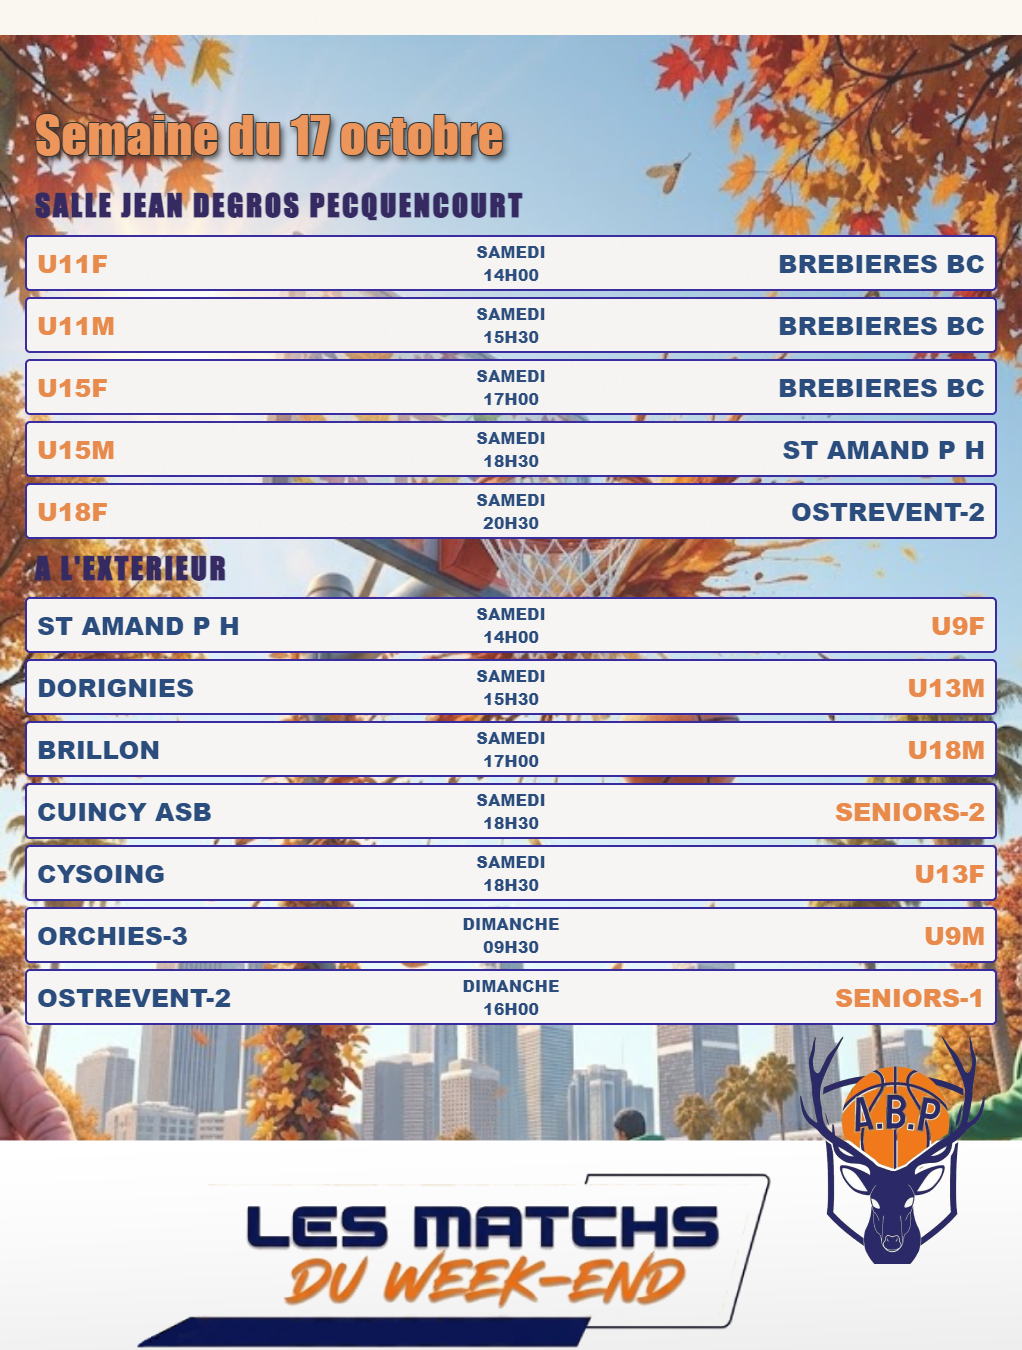
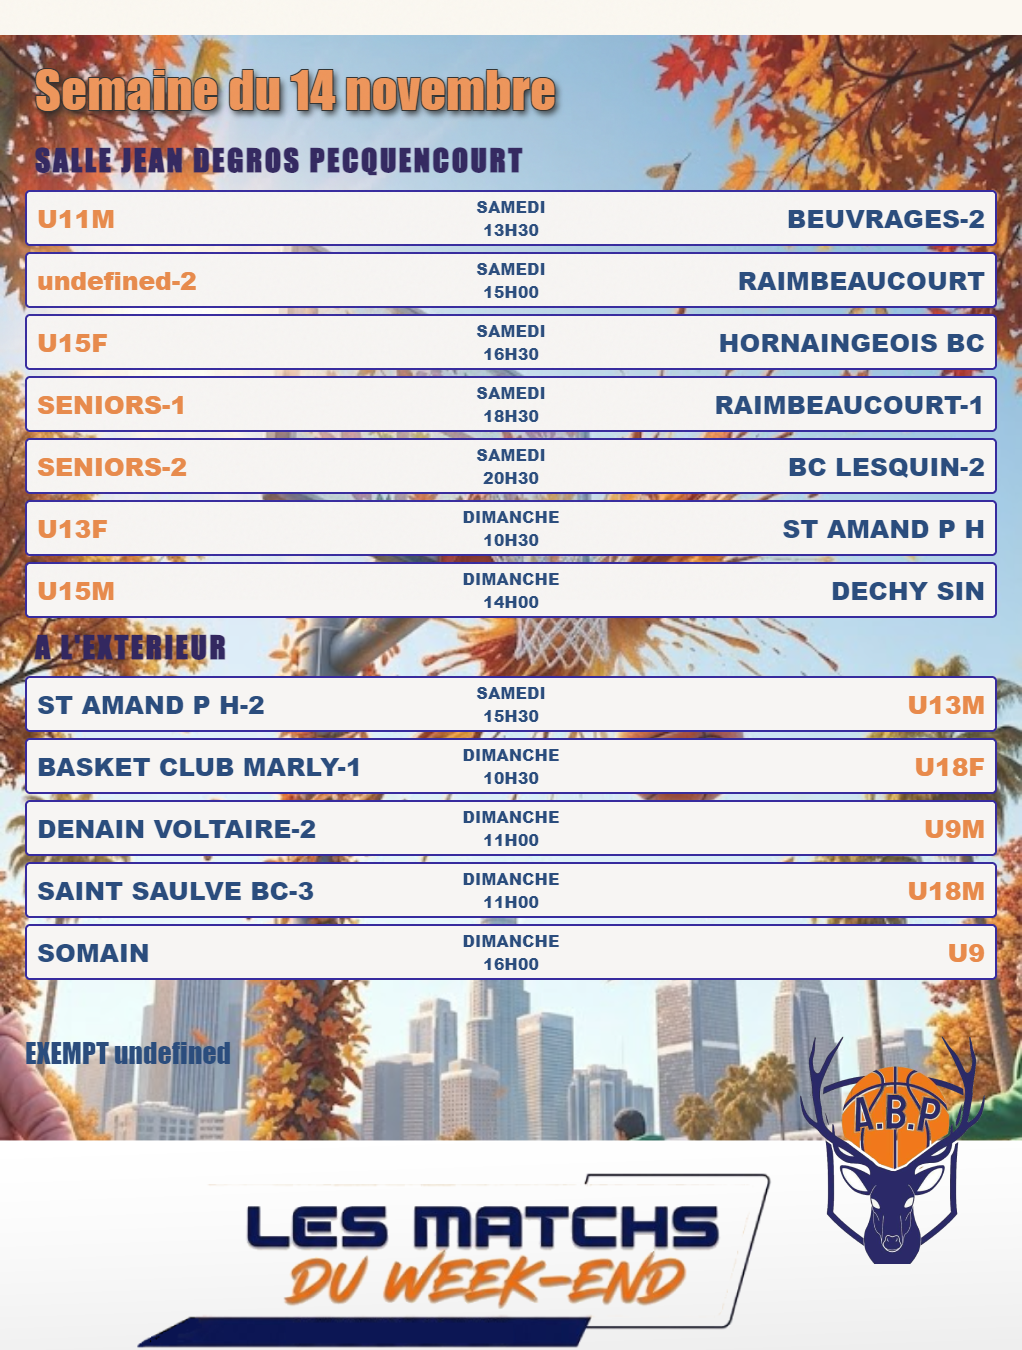
Mise a jour automatique 11/11/2026  7:27:53,32

diff --git a/scripts/matchs-xls-to-json.js b/scripts/matchs-xls-to-json.js
@@ -158,6 +158,9 @@ async function main() {
 
             const divisionRow = row["Division"];
             const division = config.divisions[divisionRow];
+            if (!division) {
+                console.warn(`⚠ Division inconnue pour la ligne : ${divisionRow}`);
+            }
 
             const estExempt = row["Equipe 1"] == "Exempt" || row["Equipe 2"] == "Exempt";
             const { nom: equipe1Nom, numero: equipe1Numero } = normalizeEquipe(row["Equipe 1"]);
@@ -166,9 +169,9 @@ async function main() {
             const Adomicile = isHome(row);
 
             return {
-                Type: division.type,
-                Equipe1: (Adomicile ? division.categorie : equipe1Nom)+ (equipe1Numero?"-"+equipe1Numero:""),
-                Equipe2: (!Adomicile ? division.categorie : equipe2Nom)+ (equipe2Numero?"-"+equipe2Numero:""),
+                Type: division ? division.type : null,
+                Equipe1: (Adomicile ? division?.categorie : equipe1Nom)+ (equipe1Numero?"-"+equipe1Numero:""),
+                Equipe2: (!Adomicile ? division?.categorie : equipe2Nom)+ (equipe2Numero?"-"+equipe2Numero:""),
                 Date: dateObj.jsDate,
                 JourRencontre: DayOfDate(dateObj),
                 DateFormatted: formatDate(dateObj),
